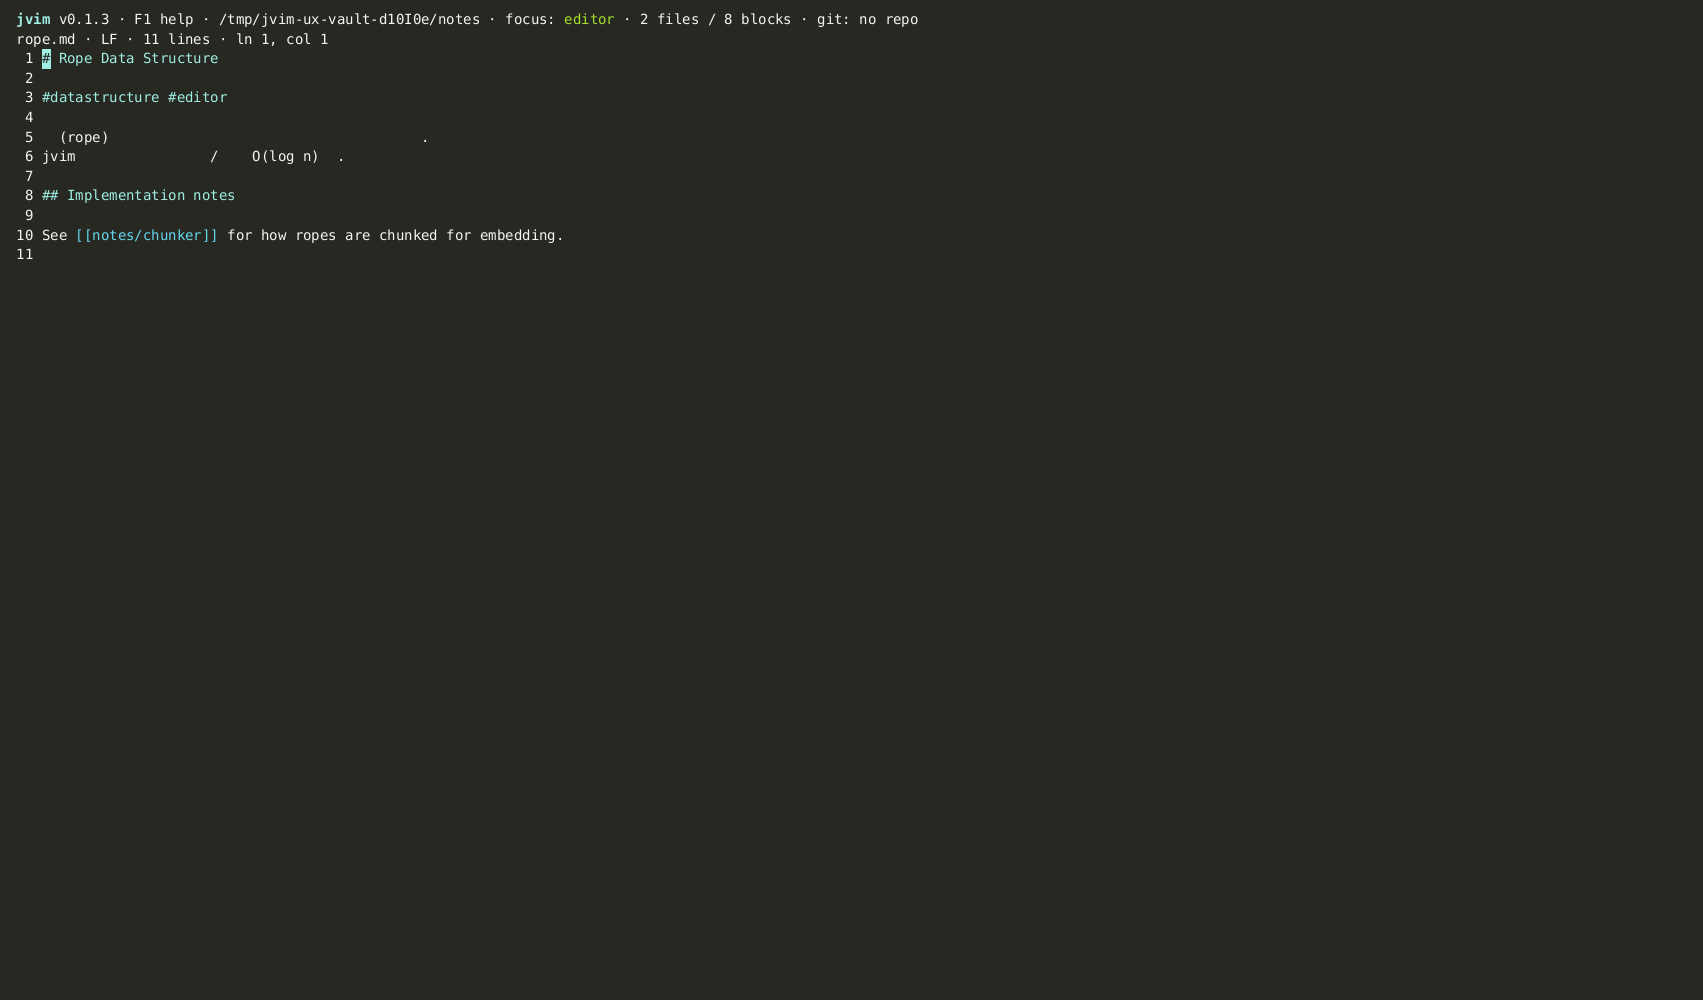
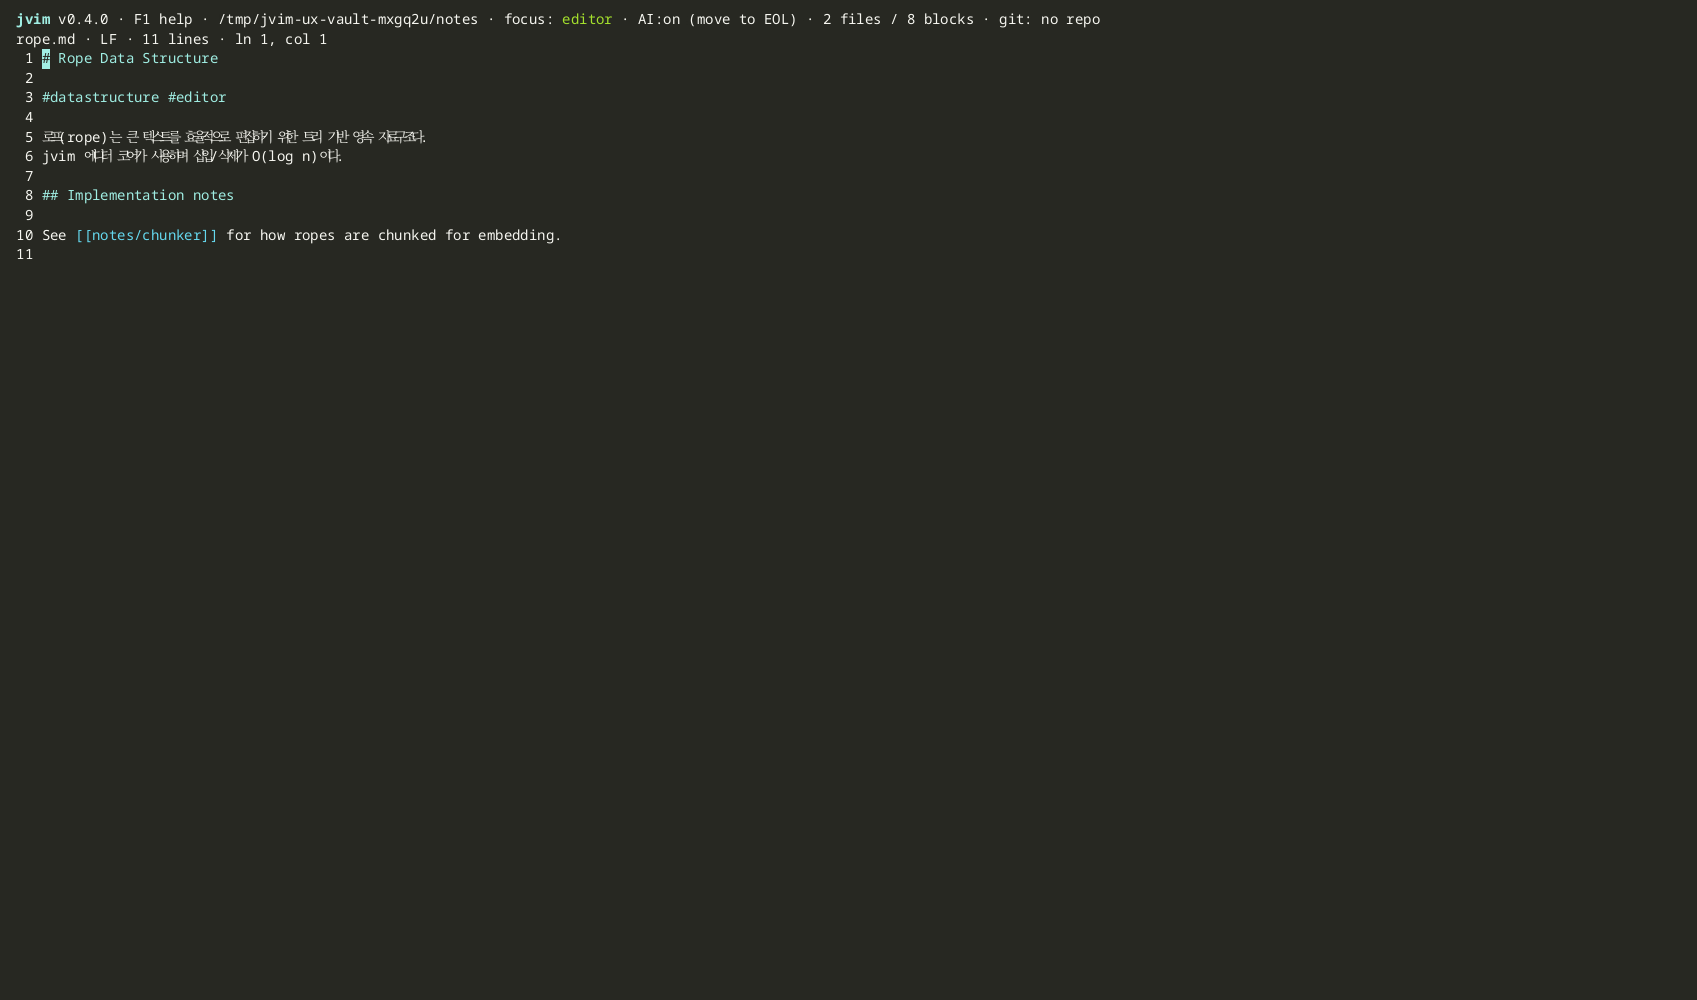
docs: refresh feature guide coverage

diff --git a/docs/index.html b/docs/index.html
@@ -302,11 +302,11 @@ description: Terminal-native markdown editor with AI overlay, semantic search, w
             </div>
             <div class="feature">
               <h3><span class="icon">#</span> <span data-i18n="features.tag.title">태그 브라우저</span></h3>
-              <p data-i18n-rich="features.tag.desc"><code>#tag</code> 자동완성과 F7 태그 브라우저. 태그-검색 핸드오프로 한 번에 vault 전체 탐색.</p>
+              <p data-i18n-rich="features.tag.desc"><code>#tag</code> 자동완성과 F7 태그 브라우저. 파일 출처를 보며 태그-검색 핸드오프로 vault 전체를 바로 탐색.</p>
             </div>
             <div class="feature">
               <h3><span class="icon">🔎</span> <span data-i18n="features.search.title">풀텍스트 + 시맨틱 검색</span></h3>
-              <p data-i18n="features.search.desc">SQLite FTS5 기본, 옵션으로 sqlite-vec 임베딩. 대소문자 토글, vault-wide 검색.</p>
+              <p data-i18n="features.search.desc">Shift+F4 vault 검색, Shift+F5 인덱스 scope, Ask 모드의 RAG 출처까지. SQLite FTS5 + optional sqlite-vec.</p>
             </div>
             <div class="feature">
               <h3><span class="icon">⌘</span> <span data-i18n="features.keymap.title">Notepad 단축키</span></h3>
@@ -314,7 +314,7 @@ description: Terminal-native markdown editor with AI overlay, semantic search, w
             </div>
             <div class="feature">
               <h3><span class="icon">AI</span> <span data-i18n="features.ai.title">AI 오버레이</span></h3>
-              <p data-i18n="features.ai.desc">인라인 자동완성, 빠른 프롬프트, 모드별 컨텍스트 (Ask / Insert / Rewrite). Local LLM도 지원.</p>
+              <p data-i18n="features.ai.desc">Ask/Insert/Rewrite, 인라인 자동완성, 문서 교정, RAG 출처 표시. Local LLM도 지원.</p>
             </div>
             <div class="feature">
               <h3><span class="icon">git</span> <span data-i18n="features.git.title">Git 통합</span></h3>
@@ -376,7 +376,7 @@ sudo mv jvim /usr/local/bin/</pre>
         <div class="container">
           <h2 class="section-title" data-i18n="workflows.title">상세 사용 가이드</h2>
           <p class="section-subtitle" data-i18n="workflows.subtitle">
-            jvim의 모든 핵심 기능을 스크린샷과 함께 하나씩 안내합니다. 도움말(<code>F1</code>)에서 언급되는 모든 기능이 여기에 포함됩니다.
+            jvim의 핵심 워크플로우를 실제 PTY 캡처 스크린샷과 함께 안내합니다. 전체 키맵은 아래 표와 앱 안의 <code>F1</code> 도움말을 함께 참고하세요.
           </p>
 
           <!-- 1. 편집 기초 -->
@@ -437,7 +437,7 @@ sudo mv jvim /usr/local/bin/</pre>
                 <li><code>Ctrl+O</code> — 파일 팔레트 (vault 전체 fuzzy)</li>
                 <li><code>F2</code> — 아웃라인 오버레이: heading으로 점프</li>
                 <li><code>Shift+F3</code> — Go to line 대화상자 (줄 번호 입력 → 점프)</li>
-                <li><code>Ctrl+Tab</code>/<code>Ctrl+Shift+Tab</code> — 열린 버퍼 사이클</li>
+                <li><code>Ctrl+PgUp</code>/<code>Ctrl+PgDn</code> — 열린 버퍼 사이클</li>
               </ol>
             </div>
           </div>
@@ -483,28 +483,68 @@ sudo mv jvim /usr/local/bin/</pre>
             </div>
           </div>
 
-          <!-- 6. Vault 전체 검색 + 시맨틱 -->
+          <!-- 6. 포맷팅 -->
+          <div class="workflow reverse">
+            <div class="workflow-media">
+              <img src="{{ '/images/51-format-document-altf.png' | relative_url }}" alt="format document" loading="lazy" />
+            </div>
+            <div class="workflow-body">
+              <span class="tag">포맷팅</span>
+              <h3>Alt+F — 문서 포맷 · Alt+Shift+F — 선택 영역 포맷</h3>
+              <p>
+                내장 포맷팅은 현재 버퍼 전체나 선택 영역만 정리할 수 있습니다. Markdown은 리스트/공백을 바로잡고, 지원되는 코드/설정 파일은 Prettier 스타일 포맷터로 일관된 형태를 맞춥니다. 포맷 후 바로 이어서 타이핑해도 포커스를 빼앗지 않습니다.
+              </p>
+              <ol class="workflow-steps">
+                <li><code>Alt+F</code> — 현재 문서 전체 포맷</li>
+                <li>선택이 있으면 <code>Alt+Shift+F</code> — 선택 구간만 포맷</li>
+                <li>포맷 결과는 즉시 버퍼에 반영</li>
+                <li><code>Ctrl+S</code> 저장 전 미리 결과를 확인 가능</li>
+              </ol>
+            </div>
+          </div>
+
+          <!-- 7. Vault 전체 검색 -->
           <div class="workflow reverse">
             <div class="workflow-media">
               <img src="{{ '/images/06-vault-search-shift-f4.png' | relative_url }}" alt="vault-wide search" loading="lazy" />
             </div>
             <div class="workflow-body">
               <span class="tag">Vault 검색</span>
-              <h3>Shift+F4 — 풀텍스트 + 시맨틱 검색</h3>
+              <h3>Shift+F4 — vault 전체 풀텍스트 검색</h3>
               <p>
-                vault 내 모든 파일의 제목·본문·태그를 SQLite FTS5로 풀텍스트 검색. 선택적으로 sqlite-vec 임베딩 기반 시맨틱 검색까지. 쿼리에 <code>#tag</code>, <code>[[link]]</code> 토큰을 그대로 사용 가능. 알 수 없는 접두사나 닫히지 않은 따옴표에는 경고 표시.
+                vault 내 모든 파일의 제목·본문·태그를 SQLite FTS5로 검색합니다. 쿼리에 <code>#tag</code>, <code>[[link]]</code> 토큰을 그대로 쓸 수 있고, <code>Tab</code>으로 대소문자 구분을 토글합니다. semantic Tier 2는 별도 인덱싱 후 Ask 모드 RAG와 연계됩니다.
               </p>
               <ol class="workflow-steps">
                 <li><code>Shift+F4</code> — vault 전체 검색 오버레이</li>
                 <li>쿼리 입력 → 실시간 결과 (파일명·매치 라인 미리보기)</li>
                 <li><code>#travel</code> 같은 태그, <code>[[chunker]]</code> 같은 wikilink도 쿼리로 사용</li>
                 <li><code>Enter</code> — 선택한 결과 파일 열기</li>
-                <li>시맨틱 검색은 <code>config.toml</code>에서 <code>[ai.embeddings]</code> 설정 시 활성화</li>
+                <li><code>Tab</code> — 대소문자 구분 토글 (<code>Aa</code> 뱃지)</li>
               </ol>
             </div>
           </div>
 
-          <!-- 7. 태그 시스템 -->
+          <!-- 8. 시맨틱 인덱스 -->
+          <div class="workflow">
+            <div class="workflow-media">
+              <img src="{{ '/images/53-semantic-scope-shift-f5.png' | relative_url }}" alt="semantic index scope dialog" loading="lazy" />
+            </div>
+            <div class="workflow-body">
+              <span class="tag">시맨틱 인덱스</span>
+              <h3>Shift+F5 — 현재 문서 · vault · 즐겨찾기 중심 scope</h3>
+              <p>
+                시맨틱 Tier 2는 아무 때나 전 vault를 돌리는 대신 scope를 먼저 고릅니다. 현재 문서만 빠르게 임베딩하거나, 전체 vault를 재구축하거나, 즐겨찾기 + 현재 문서만 묶어 AI/RAG 컨텍스트 품질을 높일 수 있습니다. 파일 수가 많으면 확인 대화상자로 비용과 시간을 다시 묻습니다.
+              </p>
+              <ol class="workflow-steps">
+                <li><code>Shift+F5</code> — scope 대화상자 열기</li>
+                <li><strong>Current document</strong> / <strong>Vault</strong> / <strong>Favorites + current</strong> 중 선택</li>
+                <li><code>F11</code>로 즐겨찾기 토글 후 즐겨찾기 중심 인덱싱 가능</li>
+                <li>큰 scope는 경고 확인 후 실행 · <code>Esc</code>로 취소</li>
+              </ol>
+            </div>
+          </div>
+
+          <!-- 9. 태그 시스템 -->
           <div class="workflow">
             <div class="workflow-media">
               <img src="{{ '/images/43-tag-completion-typing.png' | relative_url }}" alt="tag completion" loading="lazy" />
@@ -513,7 +553,7 @@ sudo mv jvim /usr/local/bin/</pre>
               <span class="tag">태그 시스템</span>
               <h3>#tag 자동완성 + F7 태그 브라우저</h3>
               <p>
-                에디터에서 <code>#</code>를 입력하면 vault 전체의 태그를 실시간 자동완성. <code>F7</code> 태그 브라우저는 모든 태그를 접두사 필터와 함께 나열하며, Enter로 선택하면 <code>tag:&lt;name&gt;</code> vault 검색으로 핸드오프됩니다.
+                에디터에서 <code>#</code>를 입력하면 vault 전체의 태그를 실시간 자동완성. <code>F7</code> 태그 브라우저는 접두사 필터와 함께 태그 빈도와 대표 파일을 함께 보여주며, Enter로 선택하면 <code>tag:&lt;name&gt;</code> vault 검색으로 핸드오프됩니다.
               </p>
               <ol class="workflow-steps">
                 <li>에디터에서 <code>#</code> 입력 → 실시간 태그 자동완성 팝업</li>
@@ -524,7 +564,7 @@ sudo mv jvim /usr/local/bin/</pre>
             </div>
           </div>
 
-          <!-- 8. Wikilink + Outbound -->
+          <!-- 10. Wikilink + Outbound -->
           <div class="workflow reverse">
             <div class="workflow-media">
               <img src="{{ '/images/44-wikilink-completion-typing.png' | relative_url }}" alt="wikilink completion" loading="lazy" />
@@ -544,7 +584,7 @@ sudo mv jvim /usr/local/bin/</pre>
             </div>
           </div>
 
-          <!-- 9. Backlink 그래프 -->
+          <!-- 11. Backlink 그래프 -->
           <div class="workflow">
             <div class="workflow-media">
               <img src="{{ '/images/50-backlink-graph-ctrlb.png' | relative_url }}" alt="backlink graph" loading="lazy" />
@@ -565,19 +605,19 @@ sudo mv jvim /usr/local/bin/</pre>
             </div>
           </div>
 
-          <!-- 10. AI 오버레이 (3모드 상세) -->
+          <!-- 12. AI 오버레이 (3모드 상세) -->
           <div class="workflow reverse">
             <div class="workflow-media">
               <img src="{{ '/images/07-ai-overlay-f6-mode-pick.png' | relative_url }}" alt="AI overlay mode pick" loading="lazy" />
             </div>
             <div class="workflow-body">
               <span class="tag">AI 오버레이</span>
-              <h3>Alt+/ — Ask · Insert · Rewrite 세 가지 모드</h3>
+              <h3>F6 — Ask · Insert · Rewrite 세 가지 모드</h3>
               <p>
-                <code>Alt+/</code> (또는 <code>Ctrl+/</code> / <code>F6</code>)로 AI 오버레이를 열면 세 가지 모드 중 하나를 선택합니다. <strong>Ask</strong>는 오버레이에서 질의응답, <strong>Insert</strong>는 커서 위치에 생성 텍스트 삽입, <strong>Rewrite</strong>는 선택 영역을 AI가 교체합니다. 선택이 있으면 자동 컨텍스트, 없으면 섹션/line-window 폴백. OpenAI 호환·Anthropic·로컬 LLM 모두 지원. 11개 빌트인 컨텍스트 액션(요약, 번역, 코드 리뷰, 리팩토링 등) 제공.
+                <code>F6</code>로 AI 프롬프트 오버레이를 열면 세 가지 모드 중 하나를 선택합니다. <strong>Ask</strong>는 질의응답과 follow-up 대화, <strong>Insert</strong>는 커서 위치에 생성 텍스트 삽입, <strong>Rewrite</strong>는 선택 영역을 AI가 교체합니다. 선택이 있으면 자동 컨텍스트, 없으면 섹션/line-window 폴백을 사용합니다. OpenAI 호환·Anthropic·로컬 LLM을 모두 지원합니다.
               </p>
               <ol class="workflow-steps">
-                <li><code>Alt+/</code> — AI 컨텍스트 메뉴 (커서 위치에 표시)</li>
+                <li><code>F6</code> — AI 프롬프트 오버레이 열기</li>
                 <li>모드 선택: <strong>Ask</strong> / <strong>Insert</strong> / <strong>Rewrite</strong></li>
                 <li>선택 영역이 있으면 컨텍스트로 자동 전달</li>
                 <li>AI 응답은 스트리밍 — 상태바에 진행 인디케이터 표시</li>
@@ -586,7 +626,47 @@ sudo mv jvim /usr/local/bin/</pre>
             </div>
           </div>
 
-          <!-- 11. AI 인라인 자동완성 -->
+          <!-- 13. AI 컨텍스트 메뉴 -->
+          <div class="workflow">
+            <div class="workflow-media">
+              <img src="{{ '/images/52-ai-context-menu-proofread.png' | relative_url }}" alt="AI context menu proofread action" loading="lazy" />
+            </div>
+            <div class="workflow-body">
+              <span class="tag">문서 교정</span>
+              <h3>Alt+/ — 맞춤법·문법 교정, 다듬기, 번역 같은 빠른 액션</h3>
+              <p>
+                <code>Alt+/</code> 또는 <code>Ctrl+/</code>는 커서 바로 옆에 AI 컨텍스트 메뉴를 엽니다. 이어쓰기, 문단 완성, 맞춤법·문법 교정, 요약, 번역, 톤 변경처럼 자주 쓰는 rewrite/insert 액션을 한 번에 고를 수 있어 문서 교정이 빠릅니다.
+              </p>
+              <ol class="workflow-steps">
+                <li><code>Alt+/</code> / <code>Ctrl+/</code> — AI 컨텍스트 메뉴</li>
+                <li><code>↑</code>/<code>↓</code>로 액션 선택 · <code>Enter</code> 실행</li>
+                <li>선택 영역이 있으면 rewrite 계열 액션이 바로 적용 대상이 됨</li>
+                <li>교정 결과가 마음에 들지 않으면 <code>Ctrl+Z</code></li>
+              </ol>
+            </div>
+          </div>
+
+          <!-- 14. Ask + RAG -->
+          <div class="workflow reverse">
+            <div class="workflow-media">
+              <img src="{{ '/images/54-ai-ask-rag-sources.png' | relative_url }}" alt="AI ask mode with RAG sources" loading="lazy" />
+            </div>
+            <div class="workflow-body">
+              <span class="tag">AI 검색 / RAG</span>
+              <h3>Ask 모드 첫 턴은 semantic retrieval + Sources 목록으로 grounding</h3>
+              <p>
+                Ask 모드의 첫 질문은 시맨틱 인덱스가 준비돼 있으면 선택한 scope에서 관련 청크를 먼저 검색한 뒤 응답을 생성합니다. 응답이 끝나면 아래에 <strong>Sources</strong> 목록이 붙고, 화살표 키로 이동해 바로 원문 노트를 열 수 있습니다. 단순 채팅이 아니라 RAG 기반 지식 질의응답입니다.
+              </p>
+              <ol class="workflow-steps">
+                <li><code>Shift+F5</code>로 필요한 범위를 먼저 임베딩</li>
+                <li><code>F6</code> → <strong>Ask</strong> 선택 → 질문 입력</li>
+                <li>첫 턴 완료 후 <strong>Sources</strong>에 근거 노트와 snippet 표시</li>
+                <li><code>O</code> — 선택한 source 열기 · <code>Enter</code> — follow-up 질문</li>
+              </ol>
+            </div>
+          </div>
+
+          <!-- 15. AI 인라인 자동완성 -->
           <div class="workflow">
             <div class="workflow-media">
               <img src="{{ '/images/22-inline-ai-toggle-f9.png' | relative_url }}" alt="inline AI autocomplete" loading="lazy" />
@@ -595,19 +675,19 @@ sudo mv jvim /usr/local/bin/</pre>
               <span class="tag">AI 자동완성</span>
               <h3>Copilot 스타일 인라인 ghost text</h3>
               <p>
-                <code>Alt+I</code> (또는 <code>F9</code>)로 인라인 자동완성을 토글합니다. 활성화되면 타이핑을 멈출 때 AI가 다음 내용을 ghost text로 제안. <code>Tab</code>으로 수락, 다른 키를 누르면 무시됩니다. 파일 헤더·현재 스코프·스타일을 자동으로 읽어 context-aware 자동완성. 상태바의 AI 뱃지로 on/off 상태와 에러 원인을 즉시 확인.
+                <code>Alt+I</code> (또는 <code>F9</code>)로 인라인 자동완성을 토글합니다. 활성화되면 타이핑을 멈출 때 AI가 다음 내용을 ghost text로 제안합니다. <code>Tab</code>으로 전체 수락, <code>→</code> 또는 <code>Ctrl+→</code>로 다음 단어만 부분 수락할 수 있습니다. 상태바의 AI 뱃지로 on/off 상태와 에러 원인을 즉시 확인합니다.
               </p>
               <ol class="workflow-steps">
                 <li><code>Alt+I</code> — 인라인 자동완성 토글 (<code>F9</code>도 동작)</li>
                 <li>타이핑 → 잠깐 멈추면 ghost text 표시 (흐릿한 텍스트)</li>
-                <li><code>Tab</code> — ghost text 수락 (VSCode 컨벤션)</li>
+                <li><code>Tab</code> / <code>→</code> / <code>Ctrl+→</code> — 전체 또는 단어 단위 수락</li>
                 <li>다른 키 입력 시 제안 자동 해제</li>
                 <li><code>providers.toml</code>에서 <code>inline_model</code> 설정으로 빠른 모델 분리 가능</li>
               </ol>
             </div>
           </div>
 
-          <!-- 12. 코드 구문 강조 -->
+          <!-- 16. 코드 구문 강조 -->
           <div class="workflow reverse">
             <div class="workflow-media">
               <img src="{{ '/images/34-code-fence.png' | relative_url }}" alt="code syntax highlighting" loading="lazy" />
@@ -627,7 +707,7 @@ sudo mv jvim /usr/local/bin/</pre>
             </div>
           </div>
 
-          <!-- 13. Git 통합 -->
+          <!-- 17. Git 통합 -->
           <div class="workflow">
             <div class="workflow-media">
               <img src="{{ '/images/46-commit-log-f5.png' | relative_url }}" alt="commit log" loading="lazy" />
@@ -648,7 +728,7 @@ sudo mv jvim /usr/local/bin/</pre>
             </div>
           </div>
 
-          <!-- 14. 설정 -->
+          <!-- 18. 설정 -->
           <div class="workflow reverse">
             <div class="workflow-media">
               <img src="{{ '/images/11-settings-f10.png' | relative_url }}" alt="settings overlay" loading="lazy" />
@@ -702,6 +782,7 @@ sudo mv jvim /usr/local/bin/</pre>
                 <tr><td>Ctrl+W</td><td data-i18n="km.closedoc">현재 문서 닫기</td></tr>
                 <tr><td>Ctrl+O</td><td data-i18n="km.openfile">파일 팔레트</td></tr>
                 <tr><td>Ctrl+S / F3</td><td data-i18n="km.save">저장</td></tr>
+                <tr><td>Alt+F / Alt+Shift+F</td><td data-i18n="km.format">문서 / 선택 영역 포맷</td></tr>
                 <tr><td>Ctrl+A / X</td><td data-i18n="km.selxcut">전체 선택 / 잘라내기</td></tr>
                 <tr><td>Ctrl+Z / Y</td><td data-i18n="km.undoredo">undo / redo</td></tr>
                 <tr><td>Tab / Shift+Tab</td><td data-i18n="km.indent">들여쓰기 / 내어쓰기 (VSCode 스타일)</td></tr>
@@ -721,8 +802,8 @@ sudo mv jvim /usr/local/bin/</pre>
                 <tr><td>Ctrl+U / D</td><td data-i18n="km.pageupdown">페이지 위 / 아래</td></tr>
                 <tr><td>Shift+&lt;nav&gt;</td><td data-i18n="km.selectextend">선택 확장</td></tr>
                 <tr><td>Ctrl+E / Tab*</td><td data-i18n="km.focustoggle">트리 ↔ 에디터 포커스 (트리 포커스 시 Tab)</td></tr>
-                <tr><td>Ctrl+Tab / Shift+Tab</td><td data-i18n="km.buffercycle">다음 / 이전 버퍼</td></tr>
-                <tr><td>Ctrl+PageUp / Down</td><td data-i18n="km.buffercycle2">버퍼 사이클 (대체)</td></tr>
+                <tr><td>Ctrl+PgUp / PgDn</td><td data-i18n="km.buffercycle">다음 / 이전 버퍼</td></tr>
+                <tr><td>Ctrl+Shift+→ / ←</td><td data-i18n="km.buffercycle2">단어 선택 / 트리 포커스에서 버퍼 순환</td></tr>
               </table>
             </details>
 
@@ -741,9 +822,10 @@ sudo mv jvim /usr/local/bin/</pre>
             <details class="keymap-group">
               <summary data-i18n="keymap.ai">AI & 지식</summary>
               <table class="keymap-table">
-                <tr><td>Ctrl+/ / F6</td><td data-i18n="km.aiopen">AI 오버레이 (Ask/Insert/Rewrite)</td></tr>
-                <tr><td>F9</td><td data-i18n="km.inlineai">인라인 자동완성 토글</td></tr>
-                <tr><td>→</td><td data-i18n="km.inlineaccept">ghost text 수락</td></tr>
+                <tr><td>Alt+/ / Ctrl+/</td><td data-i18n="km.aimenu">AI 컨텍스트 메뉴</td></tr>
+                <tr><td>F6</td><td data-i18n="km.aiopen">AI 프롬프트 오버레이 (Ask/Insert/Rewrite)</td></tr>
+                <tr><td>Alt+I / F9</td><td data-i18n="km.inlineai">인라인 자동완성 토글</td></tr>
+                <tr><td>Tab / → / Ctrl+→</td><td data-i18n="km.inlineaccept">ghost text 수락 (전체 / 단어)</td></tr>
               </table>
             </details>
 
@@ -752,7 +834,7 @@ sudo mv jvim /usr/local/bin/</pre>
               <table class="keymap-table">
                 <tr><td>Ctrl+R</td><td data-i18n="km.reindex">전체 re-index</td></tr>
                 <tr><td>Ctrl+L / F5</td><td data-i18n="km.commitlog">commit log</td></tr>
-                <tr><td>F9 (scope)</td><td data-i18n="km.semanticscope">시맨틱 인덱스 scope (오버레이 밖에서)</td></tr>
+                <tr><td>Shift+F5</td><td data-i18n="km.semanticscope">시맨틱 인덱스 scope (오버레이 밖에서)</td></tr>
                 <tr><td>F11</td><td data-i18n="km.favorite">즐겨찾기 토글</td></tr>
               </table>
             </details>
@@ -916,7 +998,7 @@ sudo mv jvim /usr/local/bin/</pre>
 
           'workflows.title': 'Detailed usage guide',
           'workflows.subtitle':
-            "A comprehensive walkthrough of every core feature with real screenshots. Everything mentioned in the in-app help (F1) is covered here.",
+            'Core workflows with real PTY-captured screenshots. Use the table below or in-app F1 help for the full keymap.',
 
           'keymap.title': 'Full keymap',
           'keymap.subtitle':
@@ -945,6 +1027,7 @@ sudo mv jvim /usr/local/bin/</pre>
           'km.closedoc': 'Close current document',
           'km.openfile': 'File palette',
           'km.save': 'Save',
+          'km.format': 'Format doc / selection',
           'km.selxcut': 'Select all / cut',
           'km.undoredo': 'Undo / redo',
           'km.indent': 'Indent / outdent (VSCode style)',
@@ -960,7 +1043,7 @@ sudo mv jvim /usr/local/bin/</pre>
           'km.selectextend': 'Extend selection',
           'km.focustoggle': 'Tree ↔ editor focus (Tab when tree focused)',
           'km.buffercycle': 'Next / prev buffer',
-          'km.buffercycle2': 'Buffer cycle (alt)',
+          'km.buffercycle2': 'Select word / cycle buffer from tree',
 
           'km.outline': 'Outline (headings)',
           'km.tagbrowser': 'Tag browser',
@@ -969,9 +1052,10 @@ sudo mv jvim /usr/local/bin/</pre>
           'km.tagac': 'Tag autocomplete',
           'km.wikiac': 'Wikilink autocomplete',
 
-          'km.aiopen': 'AI overlay (Ask/Insert/Rewrite)',
+          'km.aimenu': 'AI context menu',
+          'km.aiopen': 'AI prompt overlay (Ask/Insert/Rewrite)',
           'km.inlineai': 'Toggle inline completion',
-          'km.inlineaccept': 'Accept ghost text',
+          'km.inlineaccept': 'Accept ghost text (full / word)',
 
           'km.reindex': 'Full re-index',
           'km.commitlog': 'Commit log',
@@ -1018,16 +1102,16 @@ sudo mv jvim /usr/local/bin/</pre>
             '<code>[[file]]</code> autocomplete, outbound overlay, backlink graph. Obsidian-compatible data model.',
           'features.tag.title': 'Tag browser',
           'features.tag.desc':
-            '<code>#tag</code> autocomplete and the F7 tag browser. Tag-to-search handoff searches the whole vault in one step.',
+            '<code>#tag</code> autocomplete and the F7 tag browser. See the source file and jump into a vault search in one step.',
           'features.search.title': 'Full-text + semantic search',
           'features.search.desc':
-            'SQLite FTS5 built in, optional sqlite-vec embeddings. Case-sensitivity toggle, vault-wide search.',
+            'Shift+F4 vault search, Shift+F5 index scope, and RAG sources in Ask mode. SQLite FTS5 with optional sqlite-vec.',
           'features.keymap.title': 'Notepad shortcuts',
           'features.keymap.desc':
             'Ctrl+C/X/V/A/Z/Y/S/O/N + Shift+Arrow selection. Vim-style tree (j/k/g/G/n/r/d) too.',
           'features.ai.title': 'AI overlay',
           'features.ai.desc':
-            'Inline completion, quick prompts, per-mode context (Ask / Insert / Rewrite). Local LLMs supported.',
+            'Ask/Insert/Rewrite, inline completion, proofreading prompts, and RAG sources. Local LLMs supported.',
           'features.git.title': 'Git integration',
           'features.git.desc':
             'Commit log viewer (F5), <code>+N/−M</code> diff summary in the header and <code>jvim diff</code> CLI. The vault-aware index survives <code>git checkout</code>.',